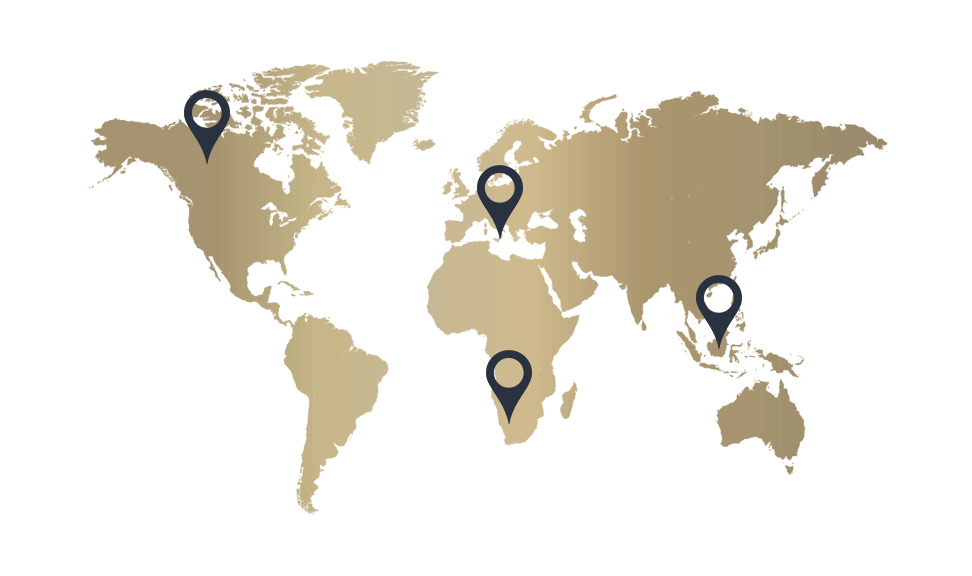
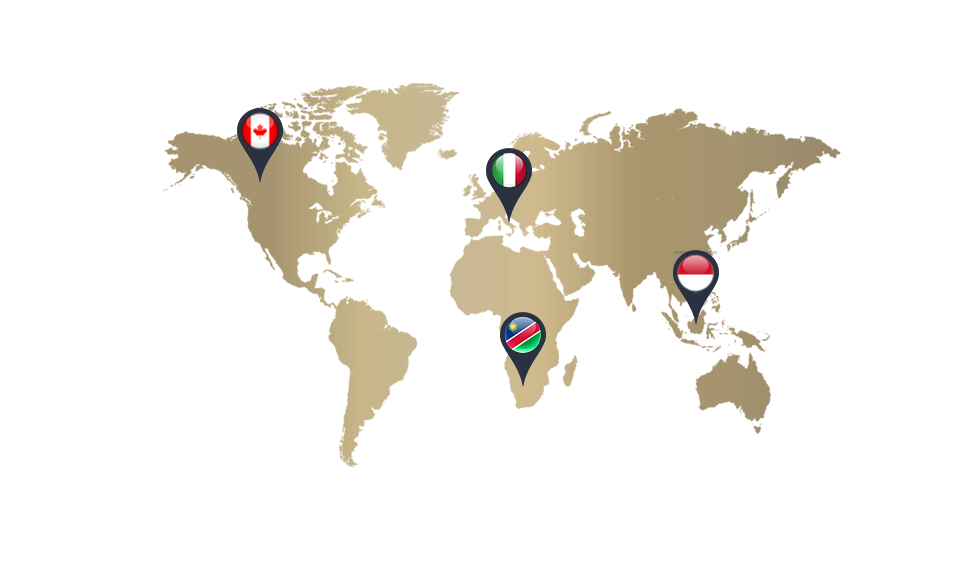
ajout onglet, pins drapeaux

Changed region(s): [[0.0926, 0.0938, 0.9259, 0.9062]]

diff --git a/index.html b/index.html
@@ -15,6 +15,7 @@
             <h3>Les explorateurs</h3>
         </div>
         <ul class="nav-menu nav-right">
+            <li><a href="index.html">ACCUEIL</a></li>
             <li><a href="#">CONTINENT</a>
                 <ul>
                     <li><a href="#">AFRIQUE</a>
@@ -82,7 +83,7 @@
                 <div class="col"> <!--start col-->
                     <h4>Projet Voyages</h4>
                     <p class="short">Start 2022/23 </p>
-                    <p class="short"></p>Site réalisé par "Les explorateurs"</p>
+                    <p class="short">Site réalisé par "Les explorateurs"</p>
 
                     <h4>CV</h4>
                     <a href="https://mohammed-yassine-dabboussi.students-laplateforme.io" target="_blank">Mohammed Y. Dabboussi </a>

diff --git a/indonesie.html b/indonesie.html
@@ -75,6 +75,7 @@
 
     <main>
         <section class="container">
+            <img src="img/map.png" style="filter: drop-shadow(0 -6mm 4mm #023047); width: auto;margin: auto; " alt="indonesie">
 
 
         </section> <!-- end container -->
